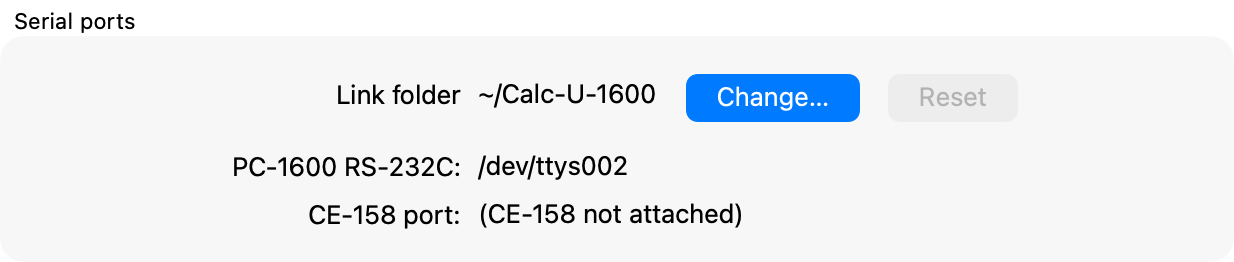
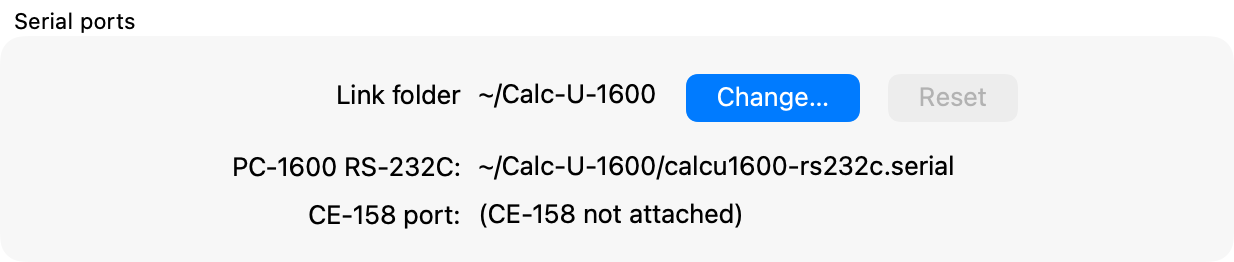
Documentation follows the code since the last sweep; Calc-U-1600 help pictures retaken
Help: the App log level in both products' settings chapters, Help ▸ Show
App Log in Calc-U-59's menu table, More ▸ Reset on iOS in the FAQ, the
Copy Screen and Paste Text shortcuts, the settings notice when the file
cannot be written, the CE-158 link to its section in PC-1500-BASIC-Reference.
CHANGELOG: keycode 65 shown as ×, a module definition's insert-notice,
tinue/Calc-U. Developer documents: Calc-U-1600's natural-orientation rule
and the Web's three kinds of page, RUN LOG for the tab, the settings
sections with App log, Import Media… for cards, report.py in the harness
spec and the driver README, appLog.js in web-embed (and its §6 table
closed), paperWindow in help-site, About's Package and Built in Process,
check_chrome_colours.sh and build-id.cmake in tools/README, cd Calc-U.
CLAUDE.md: web's areas, SessionThread's attach include, the harness's
serve with add-ons among the threaded adapters, shellModel.js's mirrors.
test-groups and GLOSSARY entries as registered and shown; the Calc-U-59
skills without a removed test, with Arm Fresh Card's id and Calc-U-Site.

The help pictures come from tools/make_screenshots.sh: Settings with its
App log section and the RS-232C link file.

Claude-Session: https://claude.ai/code/session_01HCQnXfTarqin9FdsrwvCKx

Changed region(s): [[0.3695, 0.5802, 0.7699, 0.6718]]

diff --git a/docs/test-groups.md b/docs/test-groups.md
@@ -127,7 +127,7 @@ Measured on an M4 Pro, RelWithDebInfo.
 | `calcu_serve_python` | `library/harness/python/tests/test_calcu_serve.py`: the Python helper for `calcu serve` against `calcu_test`, with its reply timeout (with `uv run --no-project python -I`, else Python 3) | Frequent | 0.05 s |
 | `calcu_report_python` | `library/harness/python/tests/test_report.py`: the run report of the products' pytest plugins (`report.py`), its 9 cases: the verdict and scope, the reasons of a partial run, the kept runs, the facts with the ROM folder given; pytest through `uv run --with` (fetched once, so Longer), `CALCU` set to `calcu_test`; registered where uv is | Longer | 0.7 s |
 | `LibraryPlatformStoreCheck` | `library/settings/tests/check_platform_stores_test.sh`: the self-test of `library/settings/check_platform_stores.sh`, the source check the products run over their frontends; not registered on Windows | Frequent | 0.03 s |
-| `LibraryChromeColours` | `tools/check_chrome_colours.sh` over the component sets (`library/web/components`, `src`, `app`, `library/qt6`; test code aside) with `library/tools/chrome_colours_allowed.txt`: no colour literal (as `CalcU59ChromeColours`); the shell's CSS reads the common chrome colours and `shell::shellColourNames()` only. The allow-list names the `?pace=1` line and the install banner, each with its reason | Frequent | 0.05 s |
+| `LibraryChromeColours` | `tools/check_chrome_colours.sh` over the component sets (`library/web/components`, `src`, `app`, `library/qt6`; test code aside) with `library/tools/chrome_colours_allowed.txt`: no colour literal (as `CalcU59ChromeColours`); the shell's CSS reads the common chrome colours and `shell::shellColourNames()` only. The allow-list names the `?pace=1` line and the install banner, each with its reason; not registered on Windows | Frequent | 0.05 s |
 | `LibraryShellNoProduct` | `library/qt6/tests/check_no_product_code.sh`: no include from `products/` and no model, peripheral or product name in the code (comments aside) of `library/shell`, `library/qt6` and `library/web/components`; not registered on Windows | Frequent | 0.2 s |
 | `LibraryHelpTool` | `python3 -m unittest discover -s helptool/tests -t .` in `tools/`: the help tool's cases (`tools/helptool/tests/test_*.py`: the manifests, the asset and `toc.json`, anchors against `library/help/anchor_cases.txt`, links and `chapter:` links, the checks), each on a copy of the fixture help tree `tools/helptool/tests/fixtures/good/`; registered when Python 3 is found | Frequent | 0.5 s |
 | `LibraryWebNodeTests` | `node --test` over `library/web/tests/build.test.js` (the Web frontend shell's build functions, `library/web/build/dist.js`: MANIFEST, `files.json`, the service worker stamp, one global in `calc.js`, the CSS scope check, the version from `release.yaml`), `shell_model.test.js` (the page-side shell rules of `library/web/components/shellModel.js`: view, barFit, "Loading…", notices, the pointer and hit rule, About; the C++ cases under the same names, the hit cases of `library/shell/tests/hit_cases.txt`), `host_keys.test.js` (`library/web/components/hostKeys.js`), `embed_props.test.js` (`library/web/src/embed.js` `embedProps`), `streams.test.js` (the stream topics of `library/web/src/shell.js` with `calcuStreamAfter`: a place kept by the last item taken, over the cap of kept items and a reset) and `app_log.test.js` (the app log of `library/web/src/appLog.js` and its route through `shell.js`: the level of the page's lines by `?app-log-level=`, the worker's lines, the kept lines and their form, a failure's one error line, the sentence of a stop); registered when `node` is found; also run by the CI job `library` | Frequent | 0.3 s |
@@ -150,12 +150,12 @@ Measured on an M4 Pro, RelWithDebInfo.
 | `CalcU59FrontendsDrawControlState` | `tools/check_frontends_draw_control_state.sh`: no file of the Qt6, Web and Swift frontends reads the model facts (`MachineModelInfo`, `hasCardReader`, `cu59::info(`, `findModel(`, `kModelFacts`): they draw the model, the module, the printer and the card controls from the control state | Frequent | 0.02 s |
 | `CalcU59ChromeColours` | `tools/check_chrome_colours.sh` (repository root) with `tools/chrome_colours_allowed.txt`: no colour literal (`#rrggbb`, `%23rrggbb`, `rgb(`/`rgba(`/`hsl(`/`hsla(` with numbers, `QColor(` with numbers, `Qt::white` and the other named Qt colours, a named CSS colour as the value of a colour property (`color`, `background`, `border…`, `outline…`, `fill`, `stroke`) or of a custom property (the CSS's fallbacks are system colours), SwiftUI `Color(red:`/`Color(white:`) in the Qt6, Web and Swift frontends' code; their colours come from `app/TIChrome`. The allow-list names the faceplate, key, cue-card and LED artwork and the pages around the Web client, each with its reason | Frequent | 0.05 s |
 | `CalcU59HelpCheck` | `tools/help check calc-u-59 --quiet-warnings`: the help tool's checks over `library/help/` and `help/`; registered when Python 3 is found | Frequent | 0.3 s |
-| `CalcU59HelpBuild` | `tools/help build calc-u-59 --quiet-warnings --out <tree>/products/calc-u-59/help`: the help asset `Calc-U-59-help.zip`, so the test suite builds it too | Frequent | 0.4 s |
+| `CalcU59HelpBuild` | `tools/help build calc-u-59 --quiet-warnings --out <tree>/products/calc-u-59/help`: the help asset `Calc-U-59-help.zip`, so the test suite builds it too; registered where Python 3 is found | Frequent | 0.4 s |
 | `CalcU59CoreSeam` | `tools/check_core_seam.sh`: no core-internal header outside `core/` and `tests/` | Frequent | 0.02 s |
 | `CalcU59OpenWithTypes` | the library's `library/qt6/tests/check_open_with_types.sh`: the Qt6 app's Open With offers the three preset extensions on macOS (`Info.plist.in`), Windows (`calc-u-59.iss`, the command line of `library/qt6/windows/CalcUApp.iss`) and Linux (`calc-u-59.desktop` and the MIME type it names, `calc-u-59.xml`) | Frequent | 0.03 s |
 | `CalcU59NoOwnRomLookup` | `library/roms/tests/check_no_own_rom_lookup.sh`: no product source outside `app/ProductRoms.*`, the catalogue and the Qt6 bundle looks for a ROM file | Frequent | 1.2 s |
 | `CalcU59NoOwnSession` | `library/sessions/tests/check_no_own_session.sh`: the product defines no `AppSession`, `MachineSession` or `Pacer` of its own; the Qt6 frontend includes `qt6/SessionHost.hpp` and sends no suspend or continue; the Web's `bindings.cpp` includes `shell/HostSession.hpp` | Frequent | 0.05 s |
-| `CalcU59NoPlatformSettings` | `library/settings/check_platform_stores.sh` over `frontends/` with `tools/platform_stores_allowed.txt`: no setting in UserDefaults, `@AppStorage`, QSettings or `localStorage`; allowed: the trace folder's bookmark and the Playwright check that 2.3.0's entries are not read; not registered on Windows | Frequent | 0.02 s |
+| `CalcU59NoPlatformSettings` | `library/settings/check_platform_stores.sh` over `frontends/` with `tools/platform_stores_allowed.txt`: no setting in UserDefaults, `@AppStorage`, QSettings or `localStorage`; allowed: the bookmarks of the startup presets chosen with Choose… (`startupPresetBookmarks`); not registered on Windows | Frequent | 0.02 s |
 | `CalcU59HarnessRomMissing` | `tests/harness_rom_tests.py`: `calcu --product c59` on a ROM folder without one file (`CALCU59_ROMS_DIR`) ends with exit status 2 naming it; on the full set it starts (with Python 3) | Frequent | 0.3 s |
 | `CalcU59CalcuRuns` | `cmake -DCALCU=… -P tests/calcu_runs.cmake`: `calcu --product c59 wait 1s then display-text` as a process, exit status 0 and the display; also a step of every desktop job of `qt-desktop.yml` | Frequent | 0.1 s |
 | `CalcU59CalendarScripts` | `tools/calendar/selftest.py --calcu <calcu>`: `tools/calendar/fastcal.py` regenerates `calendar-09` equal to the tracked file, and `years.py` finds the year in it through `calcu serve` (with Python 3) | Frequent | 2 s |
@@ -199,7 +199,7 @@ Measured on an M4 Pro, RelWithDebInfo unless noted.
 | `CalcU1600DapPortCheck` | `tests/dap/dap_port_check.sh`: `calcu … serve --dap 80` ends with exit status 2 and the reason; so does `--dap` outside `serve`; not on Windows | Frequent | 0.03 s |
 | `CalcU1600HelpTests` | `tests/help/help_tests.cpp`: `help/settings-keys.txt` matches `settingsDecl()` (`CALCU1600_HELP_KEYS=1` writes it anew), every declared key is in it, and `help/help.yaml`'s `names:` cover the catalogue's models and peripherals with the bundled module definitions; a program of its own | Frequent | 0.01 s |
 | `CalcU1600HelpCheck` | `tools/help check calc-u-1600 --quiet-warnings`: the help tool's checks over `library/help/` and `help/`; registered when Python 3 is found | Frequent | 0.2 s |
-| `CalcU1600HelpBuild` | `tools/help build calc-u-1600 --quiet-warnings --out <tree>/products/calc-u-1600/help`: the help asset `Calc-U-1600-help.zip`, so the test suite builds it too | Frequent | 0.3 s |
+| `CalcU1600HelpBuild` | `tools/help build calc-u-1600 --quiet-warnings --out <tree>/products/calc-u-1600/help`: the help asset `Calc-U-1600-help.zip`, so the test suite builds it too; registered where Python 3 is found | Frequent | 0.3 s |
 | `CalcU1600QtTests.romsMissing` | `CalcU1600QtTests roms_missing_in_window` with `CALCU1600_QT_ROMS_MISSING=1`: the window over a ROM folder without one file shows the text in place of the faceplate, no bar, no Machine menu; Help and About work; offscreen, Qt trees only | Frequent | 0.8 s |
 | | **Frequent, Calc-U-1600** | | 32.6 s wall alone with `-j8`; both products together 30.9 s wall with `-j8` |
 | `CalcU1600WebPlaywright` | `frontends/web/run-tests.sh`: Playwright over `frontends/web/tests/*.spec.js`, Chromium (root, sub-path) and WebKit (offline); the servers are `library/web/tools/serve.py` (started by `library/web/tools/playwright.sh`, the library's and both products' runner), the offline server and the prerender sandbox `library/web/tests/dist-helpers.js`: the page, presets (bundled and uploaded), files through `open`, typing, the paper of the plotters, tracing, the cold boot menu item, the startup preset setting | Longer | 22.5 s (Homebrew Emscripten 7.0); 31 s in CI (6.0.13) |
@@ -207,7 +207,7 @@ Measured on an M4 Pro, RelWithDebInfo unless noted.
 | `CalcU1600WebNoTestAids` | `tests/web_no_test_aids.sh`: builds a release Web `dist/` (`frontends/web/build.sh --release`, `CALCU_WEB_TEST_AIDS` off: `app/SharpWebPart.cpp` compiled again) into a temporary folder and finds neither `c1600.upload` nor `c1600.display-text` in any of its files (nor `c1600.shell-product` in the engine); CI runs the script on the `dist/` it zips; not registered on Windows; serial (shares `build/web`) | Longer | 7 s with `build/web` built |
 | `CalcU1600WasmSmoke` | `tools/build_wasm_check.sh`: core and app layer under node | Longer | 5.1 s without the build; 44 s in CI with the build |
 | `CalcU1600CoreTests.longer` | `CalcU1600CoreTests --group longer`: `examples_match_their_references`, each example (every preset of `examples/`) loaded through the harness until `wait` finds it idle and compared with its reference run (`tests/references/examples/`: the display rows, the BASIC pointers, the BASIC area and the PC-1500's machine-language area as `c1600 inspect` dumps them, each plotter's strokes); `make_diskworks_media` also compares the module and disk its `saveas:` writes with those of `examples/dwx/`. `CALCU1600_REFERENCE_RECORD=<folder>` writes the references of every example into that folder, never into the references; 33 references, no exceptions | Longer | 76 s (all 33 compared) |
-| `CalcU1600QtTests` | `frontends/qt6/tests/`: 32 `TEST`s on the real window of Calc-U-1600 put together from the library's shell, on the real ROMs (a bundle folder and home of its own) and the real clock, offscreen, the file dialogs, browser and clipboard replaced: the menus, bar, settings and dialogs, the key under the pointer, display hold, an in-process scenario through attach, the control state, loading a program, opening files (a drop, a QFileOpenEvent as the Dock and Finder's Open With send it, a `.bin`, the start argument). Longer because it waits on the real clock | Longer | 24.5 s |
+| `CalcU1600QtTests` | `frontends/qt6/tests/`: 32 `TEST`s on the real window of Calc-U-1600 put together from the library's shell, on the real ROMs (a bundle folder and home of its own) and the real clock, offscreen, the file dialogs, browser and clipboard replaced: the menus, bar, settings and dialogs, the key under the pointer, display hold, an in-process scenario through attach, the control state, loading a program, opening files (a drop, a QFileOpenEvent as the Dock and Finder's Open With send it, a `.bin`, the start argument), the paper in a window of its own, Copy Screen's picture and text. Longer because it waits on the real clock | Longer | 24.5 s |
 | `CalcU1600Shots.<scenario>` | `CalcU1600Qt --shots <scenario>` into the build tree (`shots-check/`), through harness attach (`run:` is wall time). The help's scenarios of `docs/developer/screenshots/guide/`, one per help chapter with pictures (`01-introduction`, `02-getting-started`, `04-media`, `05-peripherals`, `06-presets`, `07-debugger`, `08-settings`, `09-product-topics`, the longest about 90 s), and the check scenarios of `tests/gui/*.shots.yaml`, one entry per file: the debugger's status line and Disconnect with a client of the process (the app started with `--dap 32177`), a host SHIFT tap as one SHIFT press (offscreen), a bundled example loaded by its bundle path, a plotter example's paper panel, the paper panel kept through a detach, a paused machine's title and Resume, a module template saved, the saved instance in the media picker. The `method: system` shots need the Screen Recording and Automation grants | Longer | 39.6 s for the help's set (2.2–9.2 s each); 1.7 to 3.6 s per check scenario |
 | `CalcU1600DapSmoke` | `tools/dap_smoke.py --port 32170 --harness <calcu>`: the ten scenarios against `calcu --product c1600 serve --dap 32170`, no window, each printed as `dap_<scenario>` (the RENUM one on the fixture ROM of `tests/fixtures/dap/pc1500-bus-rom/`, no skip), and `dap_vscode_session` (launch, breakpoints, stop, step, variables, continue, as VS Code sends them); where attach is built (`CALCU_ATTACH`), not on Windows | Longer | about 6 s of CPU, 17 s with the scenarios' pauses |
 | `CalcU1600DapSmokeQt` | `tools/dap_smoke.py --port 32169 --app <CalcU1600Qt>`: the same against the Qt app; Qt trees only | Longer | 33.6 s |

diff --git a/products/calc-u-59/docs/developer/Frontend-Parity.md b/products/calc-u-59/docs/developer/Frontend-Parity.md
@@ -90,7 +90,7 @@ not in the Swift app (desktop and browser tools).
 | ROM heatmap with hover address, CLR | `CPUInspectorView` | `RomHeatmapWidget` | `Debugger` (`Heatmap`) | `TIDebugPart` (`c59.heatmap`, `c59.heatmap-reset`), the core's `c59.rom-heatmap`, `RomHeatmap` (steps, colours) | All | web: wide only |
 | ASM overlay: select, run, clear; `.asm` opened by any way | `DebugView` | `AsmOverlayBox` | `Debugger` (`AsmOverlay`, upload) | `TIDebugPart` (`c59.asm-overlay`, `c59.asm-load`/`-run`/`-clear`, the entry `c59.asm-run`), `AsmOverlay` (format 2.0), the core's `c59.asm-overlay` | All | web: wide only |
 | RUN LOG tab: dumps, clear, log level | `DebugView` | `LogWidget` | `Debugger` (`LogTab`) | `TIDebugPart` (`c59.dump`), the library's `log` and `log-level`, `DebugLog` (`RingLog`, the frontends' view) | All | web: wide only; clear empties the view only |
-| LOG kept across model switch | `DebugView` | `LogWidget` | `Debugger` (`LogTab`) | the frontends' view of the library's `log` | All | web: wide only |
+| RUN LOG kept across model switch | `DebugView` | `LogWidget` | `Debugger` (`LogTab`) | the frontends' view of the library's `log` | All | web: wide only |
 | Binary trace (TRACE toggle), size limit | `DebugView` (`trace {button}`) | `LogWidget` (`trace {button}`) | `Debugger` (`LogTab`; the list of the traces handed over) | the library's trace session (one at a time), `TITraceRecorder`, `TraceWriter` | All | web: wide only; handed over (downloaded) when switched off; the RUN LOG tab lists the traces only; where the trace folder cannot be written the start is refused |
 | Trace location | Local / iCloud (Settings ▸ Tracing ▸ Save Location) | save folder, or trace folder in Settings | none: `keep-file` downloads | — | Swift only / Qt only / Web only | iCloud: Swift only; web: no location to choose |
 | Notices, "Loading…" | Swift shell (an alert with the notice and OK, one after the other; "Loading…" below the display) | shell | shell | the library's `notices`, `NoticeQueue`, `LoadingRule` | All | several notices are shown one after the other; "Loading…" while a preset or another operation runs at full speed for more than half a second |
@@ -103,7 +103,7 @@ not in the Swift app (desktop and browser tools).
 | Feature | Swift | Qt | Web | App layer | Status | Notes |
 |---|---|---|---|---|---|---|
 | About (icon, version, summary, links, Support Information, Display, Copy) | — (no About in the iPhone and iPad app) | shell (Help ▸ About Calc-U-59; the window icon, "Built with Qt"; the package (`CALCU_PACKAGE`), OS and hardware from `qt6/HostInfo`; Display from `QScreen`, the panel's native mode on macOS, the windowing on Linux) | shell (desktop: Help ▸ About; More ▸ About; no icon; the page's address, browser, OS and architecture as far as the browser tells; Display in CSS pixels × devicePixelRatio, no screen name, no panel) | `TIShellProduct` | Qt and Web | |
-| Settings | Swift shell (`settingsSpec(SwiftIOS)`: General, Startup presets, Display, Keyboard, Layout, Tracing; a sheet with Done) | shell (`cu59::settingsSpec(Qt6)`: General, Startup presets, Storage, Folders, Tracing, Display) | shell (`settingsSpec(WebWide/WebPortrait)`: General, Startup presets, Tracing (wide), Keyboard (portrait); no Settings with the prop `settings` off) | `Settings`, the library's `SettingsPart`, `TIShellProduct` | All | every change applied at once; More ▸ Settings… on every bar; a startup preset row ends with the model's "Choose…" (Qt6: a file dialog; Swift: the file importer and a security-scoped bookmark; Web: the preset with its files, kept in the file cache), sent as `choose-startup-preset`, which checks it first |
+| Settings | Swift shell (`settingsSpec(SwiftIOS)`: General, Startup presets, Display, Keyboard, Layout, Tracing, App log; a sheet with Done) | shell (`cu59::settingsSpec(Qt6)`: General, Startup presets, Storage, Folders, Tracing, Display, App log) | shell (`settingsSpec(WebWide/WebPortrait)`: General, Startup presets, Tracing (wide), Keyboard (portrait), App log; no Settings with the prop `settings` off) | `Settings`, the library's `SettingsPart`, `TIShellProduct` | All | every change applied at once; More ▸ Settings… on every bar; a startup preset row ends with the model's "Choose…" (Qt6: a file dialog; Swift: the file importer and a security-scoped bookmark; Web: the preset with its files, kept in the file cache), sent as `choose-startup-preset`, which checks it first |
 | App log: Help ▸ Show App Log, the app log setting | Swift shell (More ▸ Show App Log: the file in the share sheet; `TIAppLog` on the library's `shell::HostAppLog`, the file in the sandbox's Library/Logs and the system log) | shell (Help ▸ Show App Log: the file in the platform's viewer, Console on macOS; `calcu::qt6::installAppLog`, `calcu::shell::hostAppLog()`) | shell (Help ▸ Show App Log: the kept lines as a download) | the library's `applog`, `SessionContext::appLog`, `[app-log] level` in `TIShellProduct`'s settings spec | All | how the app ran (failures with their cause); what the calculator ran stays in the RUN LOG tab |
 | Help (user guide link) | Swift shell (More ▸ Calc-U-59 Help; without the ROMs, the ROM message's Help) | shell (Help ▸ Calc-U-59 Help) | shell (desktop: Help menu; More ▸ Calc-U-59 Help) | `TIShellProduct` | All | opens `https://calc-u.org/59/` |
 | The view by the window's size (side by side or pages) | `CalculatorView` (`TIViewRules.view`; the pages over an active fold) | `MainWindow::applyView` (the pages' chevron at the window's top corner) | `CalcU59` (the PWA's `auto` layout) | the library's `shell::view` (`debuggerFits`) on `cu59::viewInputs`, `TIChrome` (`panelsMinWidth`, `debuggerMinWidth`, `debuggerMinHeight`) | All | the view rule everywhere: side by side when wide, the debugger where the room and the height take it, else the pages |

diff --git a/products/calc-u-1600/docs/developer/App-Layer.md b/products/calc-u-1600/docs/developer/App-Layer.md
@@ -75,7 +75,7 @@ Both libraries are built by the product's [`CMakeLists.txt`](../../CMakeLists.tx
 | `SharpProductMachines` | The machines for the library's start, model and variant switches and plug changes |
 | `PacingProfiles`, `AudioSink` | The Sharp pacing profiles (slices of 2 ms, no jitter); the host's audio output and `SoundFeed`, which plays the session's sound messages into it |
 | `Settings`, `AppPaths` | Every settings key with its default (the declaration of `Calc-U-1600.ini`); the bundled folders and how a label shows a path (the places the app writes to are the library's `calcu::settings::Paths`, `AppPaths::places()`) |
-| `SharpChrome` | The GUIs' look and layout values (the library's `shell::Chrome`, light and dark): the panels' colours as the Qt6 app has them, the window's controls for the Web, the panel header 28 and button bar 40, the pill, the bar, the slot picker's 10.5 em, the view rule's least room for the panels' row below the faceplate (200, none beside it; the library's `shell::view`, which both GUIs use: below it the calculator alone, on mobile with the room below the panels alone), the INSPECTOR beside the paper where the window is at least `debuggerMinWidth` (700) wide (narrower, the paper while a plotter is plugged in, else the INSPECTOR); both GUIs fit the bar below the faceplate by the library's `shell::barFit` (Qt6: `calcu::qt6::Shell::fitBar`, the labels "Cassette:", "Disk:" and "More"); Qt6 builds its stylesheets of it, the Web gets it with `c1600.shell-product` |
+| `SharpChrome` | The GUIs' look and layout values (the library's `shell::Chrome`, light and dark): the panels' colours as the Qt6 app has them, the window's controls for the Web, the panel header 28 and button bar 40, the pill, the bar, the slot picker's 10.5 em, the view rule's least room for the panels' row below the faceplate (200, none beside it; the library's `shell::view`, which both GUIs use: below it the calculator alone), the least width at which an upright faceplate is still used, `faceplateUsableWidth` (600: in landscape, the faceplate's natural orientation, it is always shown; upright, a narrower faceplate, a phone, gives way to the panels alone, a tablet keeps it), the INSPECTOR beside the paper where the window is at least `debuggerMinWidth` (700) wide (narrower, the paper while a plotter is plugged in, else the INSPECTOR); both GUIs fit the bar below the faceplate by the library's `shell::barFit` (Qt6: `calcu::qt6::Shell::fitBar`, the labels "Cassette:", "Disk:" and "More"); Qt6 builds its stylesheets of it, the Web gets it with `c1600.shell-product` |
 | `KeyLayout/`, `LcdLayout`, `Rgb` | Key hit-regions and the faceplate fit, by `ModelId`; LCD geometry, colours and status indicators (`lcd::indicatorSlots()`, the table the Web lays out by too, and `lcd::indicators()` of a display output) |
 | `SharpLoaderPart` | The loaders in the session: `c1600.file-kind` (what a file is, a WAV's files), `c1600.load-basic`, `c1600.type-basic` (an operation), `c1600.code-plan` (the one plan, asked again as the address is typed), `c1600.load-code` (the load and its advice; an operation with `run`); stateless, each call carries the file. The harness has it too (`c1600 file-kind`, `load-basic`, `type-basic`, `load-code`) |
 | `SharpFileKinds` | Opening a file: a drop, Open With, the file named at the start and Load Preset… send the library's `open` (the `OpenPart` that `SharpAppPart` owns, after the loaders among the parts), and the drag `open-would-take`. The library tells presets (`.pc1500`, `.pc1500a`, `.pc1600`, a `model:` line) and media by their names; `BasicProgramKind` and `MachineCodeKind` take the rest by the loaders' classifier (headerless code only in a `.bin`). A program file opened by a way with a window is the stream topic `c1600.program-opened`, on which the frontend runs its program flow; in the harness it is loaded at once. The limit is 1 MiB for a drop, Open With and the start argument. The library's `opening/StartFile` picks the file named when the Qt6 program starts |

diff --git a/products/calc-u-59/.claude/skills/calc-u-59-uitesting/SKILL.md b/products/calc-u-59/.claude/skills/calc-u-59-uitesting/SKILL.md
@@ -15,7 +15,7 @@ This skill covers all work inside `frontends/swift/Calc-U-59UITests/`.
 | File | Purpose |
 |------|---------|
 | `AppHelpers.swift` | Shared helpers: `launchApp(settings:arguments:)`, `launchApp(orientation:settings:arguments:)` (a settings file of the launch's own, `--settings-file`, and attach on port 59162), `writeSettingsFile(_:)`, `attachHarness()`, `waitIdle(_:)`, `waitForOperation(_:timeout:endsPaused:)` (the busy topic says one runs, then the reply to the bare `wait`), `navigateToOnMyIPhone(_:targetFile:)`, `loadPreset(_:file:idleTimeout:harness:endsPaused:)` (Preset button → picker → wait through attach; `endsPaused` for a preset that ends paused, which is never idle: the `run-state` topic is read instead of the bare `wait`, which would wait until resumed), `attachScreenshot()` |
-| `FamilyStructureTests.swift` | The family's scenarios, shared with the Qt and Web tests (`test_the_menus`, `test_command_r_resets`, `test_application_menu`, `test_the_bar`, `test_the_settings`, `test_loading_sign_during_a_long_load`, `test_notices_one_after_the_other`, `test_help`, `test_a_key_under_the_pointer`, `test_an_example`, `test_the_printer`, `test_one_picture_per_layout`) and the Swift frontend's own (`test_more_cold_boot_asks_first`, `test_settings_file_by_path`, `test_notice_over_the_settings_sheet`, `test_no_card_controls_on_the_ti58`, `test_iphone_portrait_reaches_every_control`, `test_paper_cut_in_dot_mode`); in `UIRegressionTests` |
+| `FamilyStructureTests.swift` | The family's scenarios, shared with the Qt and Web tests (`test_the_menus`, `test_application_menu`, `test_the_bar`, `test_the_settings`, `test_loading_sign_during_a_long_load`, `test_notices_one_after_the_other`, `test_help`, `test_a_key_under_the_pointer`, `test_an_example`, `test_the_printer`, `test_one_picture_per_layout`) and the Swift frontend's own (`test_more_cold_boot_asks_first`, `test_settings_file_by_path`, `test_notice_over_the_settings_sheet`, `test_no_card_controls_on_the_ti58`, `test_iphone_portrait_reaches_every_control`, `test_paper_cut_in_dot_mode`); in `UIRegressionTests` |
 | `LayoutTests.swift` | Button visibility, label-wrapping, portrait/landscape screenshots |
 | `FilePickerTests.swift` | File picker opens; reopens after cancel (regression for iPad popover dismiss bug) |
 | `PresetLoadTests.swift` | End-to-end load of `test_diag.ti59` via the file picker, its end through attach |
@@ -183,6 +183,7 @@ The iPad layout in landscape (and the iPhone Duo opened flat) shows the debug pa
 | `bar-slot-slot-1` | Button | The module picker (the `media` topic's entries in their order; closed: the module's ID); its entries `item-module:<id>` (`item-slot-1-none` for the empty slot) |
 | `bar-place-printer` | Button | "PC-100C" at the left of the paper panel's header (iPhone portrait: on the paper page): value `On` / `Off` |
 | `bar-media-card-reader` | Button | Arm Card (or Eject Card while a side passes), TI-59 only |
+| `bar-media-card-reader-fresh` | Button | Arm Fresh Card, TI-59 only |
 | `bar-more` | Button | More, at the right edge of the bar: items `more-item-<id>`, every menu item (`load-preset`, `examples`, `settings`, `model`, `peripherals`, `reset`, `cold-boot`, `resume`, `help`; headings `more-item-heading-<menu>`; helper `chooseFromMore(app, id)`); Cold boot's confirmation `confirm-cold-boot` |
 | `settings-dialog` | Other | The settings form; rows `setting-<section>-<key>`; `settings-close` (Done) |
 | `loading` | Other | "Loading…" below the display |

diff --git a/products/calc-u-1600/CHANGELOG.md b/products/calc-u-1600/CHANGELOG.md
@@ -10,7 +10,7 @@
 - **Startup presets:** "Choose…" in Settings takes a preset file of your own in the browser too, and the preset is checked before it is set. In the browser, choose it with the files it names, or alone when they were opened there before: the browser keeps every file you open.
 - **About** shows Support Information (the package or "self-built", build time, operating system, computer; in the browser the page's address and the browser) and Display (the screen's reported size, scale, the pixels drawn, a Mac panel's own pixels, the window's size; on Linux Wayland or X11), and has a Copy button that puts its texts on the clipboard for a bug report.
 - **New hardware:** the CE-150's cassette works on the PC-1600 (MODE 1, PC-1500 tapes); two large Slot 2 modules, the 256K custom (256 KB, initialised) and the superRAM r4 by spellbound (1 MB, blank; its initialisation program SRAMINIT.BIN comes with the module, not with Calc-U-1600).
-- **Modules and media:** choosing a module power-cycles the machine, as on the real device; modules, disks and cassettes have Name & Save and the same pickers on the desktop and the Web; a dropped or opened file goes where it belongs (program to its loader, module, disk or cassette into its place).
+- **Modules and media:** choosing a module power-cycles the machine, as on the real device; modules, disks and cassettes have Name & Save and the same pickers on the desktop and the Web; a dropped or opened file goes where it belongs (program to its loader, module, disk or cassette into its place); a module definition can carry an `insert-notice`, shown when you plug the template in by hand (the superRAM r4's names SRAMINIT.BIN).
 - **App log:** the app keeps a log of how it ran, every failure with its cause, for a problem report: Help ▸ Show App Log shows it, Settings has its level, `--app-log-level` sets it for one run. On Windows it replaces `Calc-U-1600.log` in the save folder, on Linux the syslog lines.
 - **Machine:** Pause and Resume; Machine ▸ Run Log ▸ sets what the RUN LOG tab tells about the machine's run; full speed runs a waiting machine at real time, so the prompt no longer spins; a held key stays down, so the ROM's own auto-repeat works. The paper panel is always shown and keeps its paper through detaching and model switches until Cut. Copy and Cut are icons at the right of the row below the paper.
 - **Printer window:** on the desktop and in the Web app on a computer, the button at the right of the paper's header moves the paper into a window of its own and back; the INSPECTOR takes the room, and the window comes back where you left it. The main window also comes back at its place, not only its size.

diff --git a/CLAUDE.md b/CLAUDE.md
@@ -34,10 +34,11 @@ tools/  ci/  .github/workflows/
   1. `applog`, `files`, `formats`, `machine`: the standard library only
   2. `settings` (on `files`); `pacing`, `roms` (on `machine`)
   3. `sessions`
-  4. `typing`, `peripherals`, `shell` (its `SessionThread` uses `parts`
-     and `harness` only for attach, in `CALCU_ATTACH` builds), `testing`
+  4. `typing`, `peripherals`, `shell` (its `SessionThread` uses `harness`
+     only for attach, in `CALCU_ATTACH` builds), `testing`
      (the tests' runner and rigs, used only by tests)
-  5. `startup`, `control`, `web` (only `sessions`, `settings` and `shell`)
+  5. `startup`, `control`, `web` (only `applog`, `files`, `sessions`,
+     `settings` and `shell`)
   6. `presets`
   7. `paper`, `debugger`, `media`: each adds its steps to the presets'
      vocabulary
@@ -49,8 +50,9 @@ tools/  ci/  .github/workflows/
   no threads and no locks; failures are return values. Sessions are
   single-threaded. The one exception are the host adapters at a
   session's edge, which may hold threads and locks and say so in their
-  header: `shell/SessionThread`, `shell/HostAppLog`, `harness/attach/`, the pseudo-terminal
-  link of `peripherals`, and `qt6`.
+  header: `shell/SessionThread`, `shell/HostAppLog`, `harness/attach/`, the harness's
+  `serve` with add-ons (`harness/Run`), the pseudo-terminal link of
+  `peripherals`, and `qt6`.
 - A product's code that implements a library interface stays in the
   product (`core/`, `app/`), in the product's style.
 - Two logs, never mixed: the session's `log` says what the calculator
@@ -90,7 +92,8 @@ The rules live in `library/shell/BarModel`, `library/shell/MenuModel` and
 `library/shell/View`; the code is the rule. The Web page draws the models
 its worker serves (`shell::ModelHost`); `library/web/components/shellModel.js`
 mirrors only the rules that run on the page's clock and measurements (the
-view, `barFit`, "Loading…", notices, the pointer).
+view, `barFit`, the paper row's compact rule, "Loading…", notices, the
+pointer, About's page and display rows).
 
 - Every window is desktop or mobile (`shell::Traits::mobile`). Desktop:
   Qt always, a Web page in a desktop browser's tab; it has a menu bar.

diff --git a/products/calc-u-59/CHANGELOG.md b/products/calc-u-59/CHANGELOG.md
@@ -1,7 +1,7 @@
 # Changelog
 
 ## [3.0.0] - work in progress
-- **One code base** Calc-U-59 is rebuilt on a library it shares with Calc-U-1600 (one repository, tinue/calc-u), so menus, Settings, presets, the debugger and the saved files follow one structure on every platform. The consequence: this release reads nothing 2.3.0 wrote. Presets, ASM overlays, magnetic cards and the TI-58C's constant memory have new formats, and the settings start at their defaults; the help's "Media files", "From 2.3.0" shows how to convert your files.
+- **One code base** Calc-U-59 is rebuilt on a library it shares with Calc-U-1600 (one repository, tinue/Calc-U), so menus, Settings, presets, the debugger and the saved files follow one structure on every platform. The consequence: this release reads nothing 2.3.0 wrote. Presets, ASM overlays, magnetic cards and the TI-58C's constant memory have new formats, and the settings start at their defaults; the help's "Media files", "From 2.3.0" shows how to convert your files.
 - **Mac** The Mac app is the desktop app of Windows and Linux (Qt, `Calc-U-59-mac-aarch64.dmg`, Apple silicon, macOS 15.8 or later) instead of the iPad app, and it no longer syncs through iCloud by itself: cards and the TI-58C's memory are kept in `Calc-U-59` in your home folder, and you can choose the Calc-U-59 folder in iCloud Drive as the save folder in Settings. <!-- appstore: skip -->
 
 ### New and changed
@@ -22,6 +22,7 @@
 - **Accuracy** At regular speed the TI-59 and the TI-58C ran 0.13 % and 0.10 % slow.
 - **Keyboard** At full speed one press of Adv fed many lines, and a second key pressed while another was held released the first.
 - **Calculator** A Reset set the partition back to the ROM's default; the PC-100C's TRACE switch went off at each disconnect and model switch; an armed CPU FREEZE ON START did not fire on a Reset.
+- **Debugger** The program steps showed keycode 65 as |x|; it is ×.
 - **Presets** A `card:` or `arm:` naming a card that did not exist put a blank card in and saved it under that name.
 - **Settings** A changed save folder was used only after a restart.
 

diff --git a/products/calc-u-59/docs/developer/README.md b/products/calc-u-59/docs/developer/README.md
@@ -26,7 +26,7 @@ help (below, "The help").
 | [App-Layer.md](App-Layer.md) | The app layer (`app/`) all three GUIs use: modules, the app session's part `TIAppPart`, threads, the real-time emulation loop, key input and the physical keyboard map, card reader, presets (the library's loader with the TI rules), the TI-58C constant memory, ROM loading, drawing rules; the Swift app and its ObjC++ `frontends/swift/Bridge/` layer; tests and goldens. |
 | [Frontend-Parity.md](Frontend-Parity.md) | Feature-by-feature table of the Swift app, the Qt6 app and the web client — where each feature lives and what is platform-specific. |
 | [Web-Client.md](Web-Client.md) | The web client (`frontends/web/`): layout, build, and Calc-U-59's part of the `frontends/web/dist/` contract the website embeds (its props, minimum size and test hooks; the family's contract is `docs/formats/web-embed.md`), the PWA, `MANIFEST.json`'s version. |
-| [Debug-API.md](Debug-API.md) | The debugger across the core (trace, breakpoints, CpuFrame), the app layer (`DebugModel`, snapshots, LOG, trace files, ASM overlay) and the debug panels of all three GUIs. |
+| [Debug-API.md](Debug-API.md) | The debugger across the core (trace, breakpoints, CpuFrame), the app layer (`DebugModel`, snapshots, the run log, trace files, ASM overlay) and the debug panels of all three GUIs. |
 | [Harness.md](Harness.md) | The harness `calcu --product c59` without a window: ROM traces of key sequences, timing and profiling presets, the `c59` commands, the scripts that stay (`tools/coverage.py`, `tools/fastmode_matrix.py`, `tools/calendar/`). |
 | [Idle.md](Idle.md) | When the machine takes a key, waits, has settled or has finished: the signals and how each question is answered from them. |
 | [New-GUI-Guide.md](New-GUI-Guide.md) | Porting guide for adding another GUI frontend: building on `app/` (the Qt6 app as the worked example), or compiling `app/` for a platform without threads (the web build as the example). |

diff --git a/docs/formats/web-embed.md b/docs/formats/web-embed.md
@@ -17,6 +17,7 @@ service, Save folder, Bundle file).
 | The sentences of the start and the storage | `library/web/src/sentences.js` |
 | The worker: files, storage, the call loop | `library/web/src/worker.js` |
 | The persistent file system | `library/web/src/storage.js` |
+| The page's app log: the console, the last 2000 lines for Show App Log, `?app-log-level=` | `library/web/src/appLog.js` |
 | The wire form of the messages | `library/web/glue/MessageCodec.hpp` |
 | The worker's host of the session; `web.start`, `web.storage`, `web.shell` | `library/web/glue/WorkerHost.hpp`, `.cpp` |
 | A product's registration | `library/web/glue/Bind.hpp` (`CALCU_WEB_PRODUCT`) |
@@ -335,7 +336,9 @@ The Web has three kinds of page, each drawn by the same component:
 |---|---|---|---|
 | Full app | `dist/app/` in a desktop browser's tab | desktop (menu bar) | yes: the paper panel's button opens a popup window |
 | Demo | the component embedded in another page (the website, `dist/index.html`) | desktop (menu bar) | no: an embed opens no windows of its own |
-| Mobile | the installed app, or a browser asking for the mobile site (`?mobile=1` to try it) | mobile (no menu bar) | no | Its service worker (`app/sw.js`, scope `app/`)
+| Mobile | the installed app, or a browser asking for the mobile site (`?mobile=1` to try it) | mobile (no menu bar) | no |
+
+Its service worker (`app/sw.js`, scope `app/`)
 precaches the app page, `calc.js`, `calc.css`, the workers, the engine,
 the images and every file of `files.json`. Its cache is named
 `<id>-app <scope> <hash>` (`<id>`: `calcu59`, `calc-u-1600`); a new

diff --git a/products/calc-u-1600/docs/developer/Web-Client.md b/products/calc-u-1600/docs/developer/Web-Client.md
@@ -2,10 +2,14 @@
 
 The browser frontend: the same `core/` + `app/` as the desktop app,
 compiled to WebAssembly, with a React page that looks like the Qt window.
-One build (`frontends/web/dist/`) serves two uses:
+One build (`frontends/web/dist/`) serves the library's three kinds of page
+(`docs/formats/web-embed.md` §6):
 
-- **embedded** in a web page, as a component;
-- **installed** as an offline app (`dist/app/`, a PWA), for a tablet.
+- the **full app** (`dist/app/` in a desktop browser's tab, with the paper
+  in a window of its own);
+- the **demo**, embedded in a web page as a component;
+- **mobile**: the installed offline app (`dist/app/`, a PWA) and the
+  mobile site.
 
 It is made for landscape screens and tablets; a phone works (touch takes
 the nearest key, the menus are taller on touch screens) but gets the
@@ -39,9 +43,9 @@ is fitted under the faceplate by the library's rule (`useShellBarFit`,
 `calcuShellBarFit`, as on Calc-U-59): the labels "Cassette:" and "Disk:"
 only where the whole bar fits the faceplate's width with them; as wide as
 the faceplate, wider where the controls need more, never wider than the
-window. Where the
-room is below the faceplate on mobile (a phone in portrait), the panels
-alone are shown, without the faceplate.
+window. Upright, where the faceplate would be narrower than
+`faceplateUsableWidth` (a phone in portrait), the panels alone are shown,
+without the faceplate.
 
 ```mermaid
 flowchart LR

diff --git a/tools/README.md b/tools/README.md
@@ -107,3 +107,29 @@ CI's `EMSDK_VERSION` and the release `libsharpdx-wasm.a` was built with
 (its README, `docs/Building.md`); Node's major version in both `web` jobs'
 setup-node and the local CI's `NODE_VERSION`. Reads files only. CTest
 `LibraryToolchainVersions` (Frequent; not on Windows).
+
+## check_chrome_colours.sh: no colour literal in a frontend
+
+```sh
+tools/check_chrome_colours.sh <product folder | library folder>
+```
+
+The chrome's colours live in the product's `app/` (`TIChrome`,
+`SharpChrome`) and the library's `shell/Chrome`, and every GUI reads them:
+the script fails on a colour literal in a frontend's code or the library's
+component sets, but where the folder's allow-list says why. CTests
+`LibraryChromeColours`, `CalcU59ChromeColours`, `CalcU1600ChromeColours`
+(Frequent).
+
+## build-id.cmake: the build ID, the package and the build time
+
+```sh
+cmake -DPRODUCT=<product directory> -P tools/build-id.cmake   # prints the ID
+```
+
+The ID that About and the Settings' version line show after the version
+(`<hash>`, `pre-<hash>`, `-dirty`; docs/Process.md, "What a build shows").
+The builds call it with `HEADER` (`APP_BUILD_ID`, `APP_PACKAGE`: DMG,
+AppImage, Windows installer, else self-built) and `TIME_SOURCE` (the
+build's time in UTC, `calcuAppBuildTime()`), which About's Support
+Information shows.

diff --git a/products/calc-u-59/docs/developer/App-Layer.md b/products/calc-u-59/docs/developer/App-Layer.md
@@ -156,7 +156,7 @@ After each host call (`TIAppPart::afterCall`):
    ring is on while the CPU tab shows, the machine is paused or a start is
    armed. (The trace is pumped by the library's trace session inside the
    gate.)
-3. **Slower checks**: the cue card's library program (2 Hz), the LOG text
+3. **Slower checks**: the cue card's library program (2 Hz), the RUN LOG text
    (1 Hz); the TI-58C's constant memory file (`ConstantMemoryKeeper`, at
    the latest 0.5 s after a change).
 
@@ -607,7 +607,7 @@ CalcU59App                    (Calc-U-59App.swift: scene, background/active)
     ├─ DebugView              (CALCULATOR / CPU / RUN LOG tabs)
     │   ├─ LiveDebugView      (CALCULATOR)
     │   ├─ CPUInspectorView   (CPU, with the ROM heatmap) + ASMDebugContent
-    │   └─ StaticDebugContent (LOG)
+    │   └─ StaticDebugContent (RUN LOG)
     └─ SettingsView
 
 EmulatorViewModel (@Observable, main thread)
